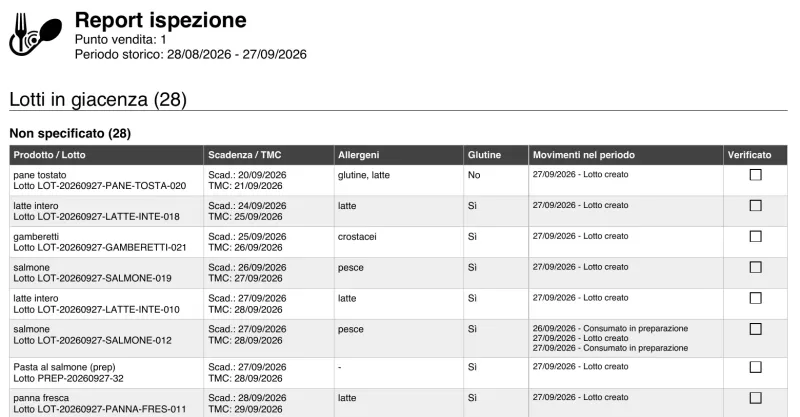
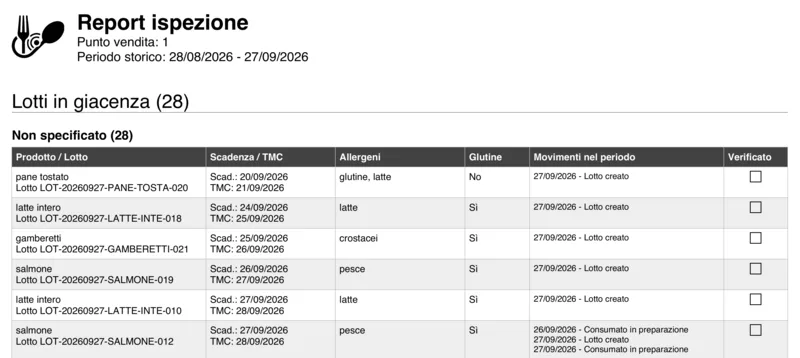
feat: hero con report leggibile e sezione Come funziona per tablet
- Hero su una colonna: titolo su 2 righe, report ispezione a tutta larghezza
  rigenerato dal PDF a 300 dpi (800/1160/2320 px)
- Come funziona: cornice tablet 16:10 per lo screenshot del passo 1,
  passi 2 e 3 affiancati
- Testi: app pensata per il tablet della cucina, funziona anche su smartphone
- Chi c'è dietro su due colonne, spaziatura sezioni ridotta

diff --git a/site/index.html b/site/index.html
@@ -19,7 +19,7 @@
 <meta property="og:image:width" content="1200">
 <meta property="og:image:height" content="630">
 <meta name="twitter:card" content="summary_large_image">
-<link rel="preload" as="image" href="/img/report-ispezione.webp" imagesrcset="/img/report-ispezione-800.webp 800w, /img/report-ispezione.webp 1560w" imagesizes="(max-width: 900px) 100vw, 540px" fetchpriority="high">
+<link rel="preload" as="image" href="/img/report-ispezione-1160.webp" imagesrcset="/img/report-ispezione-800.webp 800w, /img/report-ispezione-1160.webp 1160w, /img/report-ispezione-2320.webp 2320w" imagesizes="(max-width: 1192px) calc(100vw - 32px), 1160px" fetchpriority="high">
 <link rel="stylesheet" href="/styles.css">
 <script type="application/ld+json">
 {
@@ -53,9 +53,9 @@
     {
       "@type": "FAQPage",
       "mainEntity": [
-        { "@type": "Question", "name": "Cos'è Restrackit?", "acceptedAnswer": { "@type": "Answer", "text": "Restrackit è un software HACCP per cucine professionali, composto da un'app Android e da una piattaforma web. Serve a registrare lotti e scadenze, stampare etichette HACCP e avere i dati pronti per un'ispezione." } },
+        { "@type": "Question", "name": "Cos'è Restrackit?", "acceptedAnswer": { "@type": "Answer", "text": "Restrackit è un software HACCP per cucine professionali, composto da un'app Android per tablet e da una piattaforma web. Serve a registrare lotti e scadenze, stampare etichette HACCP e avere i dati pronti per un'ispezione." } },
         { "@type": "Question", "name": "Funziona per chi gestisce più locali?", "acceptedAnswer": { "@type": "Answer", "text": "Sì. Ogni locale ha i propri dati, separati dagli altri, e dall'app si passa da un locale all'altro con un selettore." } },
-        { "@type": "Question", "name": "Su quali dispositivi funziona?", "acceptedAnswer": { "@type": "Answer", "text": "Su smartphone e tablet Android e da browser. In cucina si usa l'app; i controlli si possono fare anche dalla piattaforma web." } },
+        { "@type": "Question", "name": "Su quali dispositivi funziona?", "acceptedAnswer": { "@type": "Answer", "text": "Su tablet Android: l'app è pensata per il tablet della cucina, usato in orizzontale. Funziona anche su smartphone Android, e i controlli si possono fare dalla piattaforma web." } },
         { "@type": "Question", "name": "Come funziona la lettura delle etichette con l'AI?", "acceptedAnswer": { "@type": "Answer", "text": "Si inquadra l'etichetta del fornitore e l'app propone prodotto, lotto e scadenza. L'operatore controlla e conferma: nessun dato viene salvato senza conferma." } },
         { "@type": "Question", "name": "Serve una stampante?", "acceptedAnswer": { "@type": "Answer", "text": "Serve solo per stampare le etichette HACCP. Durante il pilota la stampante è fornita in comodato d'uso." } },
         { "@type": "Question", "name": "A cosa servono i badge NFC?", "acceptedAnswer": { "@type": "Answer", "text": "Sul tablet condiviso della cucina ogni operatore passa al proprio profilo avvicinando il badge, oppure con un PIN. Così ogni registrazione è attribuita a chi l'ha fatta, senza digitare password in servizio." } },
@@ -85,9 +85,9 @@
 <main>
   <section class="hero">
     <div class="wrap">
-      <div>
+      <div class="hero-copy">
         <h1>Software HACCP per cucine professionali, veloce quanto il servizio</h1>
-        <p class="lead">Lotti, scadenze ed etichette in 1-2 tap. Ogni locale con i propri dati, tutti nella stessa app.</p>
+        <p class="lead">Lotti, scadenze ed etichette in 1-2 tap, dal tablet della cucina. Ogni locale con i propri dati, tutti nella stessa app.</p>
         <p class="pilot-note">Stiamo selezionando 5 cucine pilota: un mese gratis, stampante e formazione incluse.</p>
         <div class="actions">
           <a class="btn btn-primary" href="https://forms.gle/BkNGwGhaoGwES6xX8" target="_blank" rel="noopener">Candidati al pilota</a>
@@ -95,7 +95,7 @@
         </div>
       </div>
       <figure>
-        <img class="shot" src="/img/report-ispezione.webp" srcset="/img/report-ispezione-800.webp 800w, /img/report-ispezione.webp 1560w" sizes="(max-width: 900px) 100vw, 540px" width="1560" height="812" fetchpriority="high"
+        <img class="shot" src="/img/report-ispezione-1160.webp" srcset="/img/report-ispezione-800.webp 800w, /img/report-ispezione-1160.webp 1160w, /img/report-ispezione-2320.webp 2320w" sizes="(max-width: 1192px) calc(100vw - 32px), 1160px" width="2320" height="1038" fetchpriority="high"
              alt="Prima pagina di un report ispezione generato da Restrackit: lotti in giacenza con scadenza, TMC, allergeni e movimenti.">
         <figcaption>Il report per l'ispezione, generato dall'app (dati di esempio).</figcaption>
       </figure>
@@ -134,20 +134,26 @@
       <h2>Come funziona</h2>
       <p class="muted">Il percorso di un lotto, dall'arrivo della merce all'ispezione.</p>
       <div class="steps">
-        <div class="step">
-          <!-- TODO: sostituire con uno screenshot reale dell'app (lettura etichetta o nuovo lotto), es. /img/passo-lotto.webp -->
-          <div class="card-preview" role="img" aria-label="Esempio di scheda lotto: panna fresca, lotto LOT-20260927-PANNA-FRES-011, scadenza 28/09/2026, allergeni latte.">
-            <div class="lot">
-              <h3 class="m0">panna fresca</h3>
-              <dl>
-                <dt>Lotto</dt><dd>LOT-20260927-PANNA-FRES-011</dd>
-                <dt>Scadenza</dt><dd>28/09/2026</dd>
-                <dt>Allergeni</dt><dd>latte</dd>
-              </dl>
+        <div class="step step-lead">
+          <!-- TODO: screenshot reale dal tablet in orizzontale (nuovo lotto o revisione dopo la lettura dell'etichetta),
+               PNG 16:10, es. 2560x1600. Sostituire il div .card-preview con:
+               <img src="/img/passo-lotto-1160.webp" srcset="..." width="2560" height="1600" loading="lazy" alt="..."> -->
+          <div class="tablet">
+            <div class="card-preview" role="img" aria-label="Esempio di scheda lotto: panna fresca, lotto LOT-20260927-PANNA-FRES-011, scadenza 28/09/2026, allergeni latte.">
+              <div class="lot">
+                <h3 class="m0">panna fresca</h3>
+                <dl>
+                  <dt>Lotto</dt><dd>LOT-20260927-PANNA-FRES-011</dd>
+                  <dt>Scadenza</dt><dd>28/09/2026</dd>
+                  <dt>Allergeni</dt><dd>latte</dd>
+                </dl>
+              </div>
             </div>
           </div>
-          <h3>Registra il lotto all'arrivo</h3>
-          <p>Inquadri l'etichetta del fornitore: l'AI legge lotto e scadenza, tu confermi con un tap. L'operatore si identifica con il badge NFC.</p>
+          <div>
+            <h3>Registra il lotto all'arrivo</h3>
+            <p>Inquadri l'etichetta del fornitore con il tablet della cucina: l'AI legge lotto e scadenza, tu confermi con un tap. L'operatore si identifica con il badge NFC.</p>
+          </div>
         </div>
         <div class="step">
           <!-- TODO: sostituire con la foto di un'etichetta HACCP stampata, es. /img/passo-etichetta.webp -->
@@ -163,16 +169,16 @@
           <h3>Prepara ed etichetta</h3>
           <p>Per ogni preparazione l'app registra i lotti usati e calcola il TMC, il termine minimo di conservazione. L'etichetta HACCP esce dalla stampante già compilata.</p>
         </div>
-        <div class="step step-wide">
-          <div>
-            <h3 class="m0">Arriva l'ispezione? Sei già pronto.</h3>
-            <p>Le notifiche ti avvisano prima che un lotto scada. Quando serve, il report PDF raccoglie lotti, scadenze, allergeni e movimenti del periodo.</p>
+        <div class="step">
+          <div class="card-preview">
+            <ul class="status">
+              <li><span>pane tostato</span><span class="tag bad">Scaduto</span></li>
+              <li><span>latte intero</span><span class="tag warn">In scadenza</span></li>
+              <li><span>farina 00</span><span class="tag ok">In regola</span></li>
+            </ul>
           </div>
-          <ul class="status">
-            <li><span>pane tostato</span><span class="tag bad">Scaduto</span></li>
-            <li><span>latte intero</span><span class="tag warn">In scadenza</span></li>
-            <li><span>farina 00</span><span class="tag ok">In regola</span></li>
-          </ul>
+          <h3>Arriva l'ispezione? Sei già pronto.</h3>
+          <p>Le notifiche ti avvisano prima che un lotto scada. Quando serve, il report PDF raccoglie lotti, scadenze, allergeni e movimenti del periodo.</p>
         </div>
       </div>
     </div>
@@ -246,9 +252,9 @@
   <section id="faq" class="faq">
     <div class="wrap">
       <h2>Domande frequenti</h2>
-      <details><summary>Cos'è Restrackit?</summary><p>Restrackit è un software HACCP per cucine professionali, composto da un'app Android e da una piattaforma web. Serve a registrare lotti e scadenze, stampare etichette HACCP e avere i dati pronti per un'ispezione.</p></details>
+      <details><summary>Cos'è Restrackit?</summary><p>Restrackit è un software HACCP per cucine professionali, composto da un'app Android per tablet e da una piattaforma web. Serve a registrare lotti e scadenze, stampare etichette HACCP e avere i dati pronti per un'ispezione.</p></details>
       <details><summary>Funziona per chi gestisce più locali?</summary><p>Sì. Ogni locale ha i propri dati, separati dagli altri, e dall'app si passa da un locale all'altro con un selettore.</p></details>
-      <details><summary>Su quali dispositivi funziona?</summary><p>Su smartphone e tablet Android e da browser. In cucina si usa l'app; i controlli si possono fare anche dalla piattaforma web.</p></details>
+      <details><summary>Su quali dispositivi funziona?</summary><p>Su tablet Android: l'app è pensata per il tablet della cucina, usato in orizzontale. Funziona anche su smartphone Android, e i controlli si possono fare dalla piattaforma web.</p></details>
       <details><summary>Come funziona la lettura delle etichette con l'AI?</summary><p>Si inquadra l'etichetta del fornitore e l'app propone prodotto, lotto e scadenza. L'operatore controlla e conferma: nessun dato viene salvato senza conferma.</p></details>
       <details><summary>Serve una stampante?</summary><p>Serve solo per stampare le etichette HACCP. Durante il pilota la stampante è fornita in comodato d'uso.</p></details>
       <details><summary>A cosa servono i badge NFC?</summary><p>Sul tablet condiviso della cucina ogni operatore passa al proprio profilo avvicinando il badge, oppure con un PIN. Così ogni registrazione è attribuita a chi l'ha fatta, senza digitare password in servizio.</p></details>

diff --git a/site/styles.css b/site/styles.css
@@ -48,7 +48,7 @@ h3 { font-size: 1.2rem; font-weight: 600; }
 p { margin: 0 0 1em; max-width: 65ch; }
 
 .wrap { width: min(1160px, 100% - 32px); margin-inline: auto; }
-section { padding-block: clamp(56px, 8vw, 96px); }
+section { padding-block: clamp(48px, 7vw, 88px); }
 .muted { color: var(--muted); }
 
 /* Bottoni: rame + inchiostro (contrasto AA), target >= 48px */
@@ -78,14 +78,14 @@ section { padding-block: clamp(56px, 8vw, 96px); }
 @media (max-width: 420px) { .site-header .btn { display: none; } }
 
 /* Hero */
-.hero { padding-top: clamp(40px, 6vw, 80px); }
-.hero .wrap { display: grid; grid-template-columns: 1.15fr 1fr; gap: clamp(32px, 5vw, 64px); align-items: center; }
-.hero .lead { font-size: 1.2rem; color: var(--muted); }
-.hero .pilot-note { font-weight: 600; }
+.hero { padding-top: clamp(40px, 6vw, 72px); }
+.hero .wrap { display: grid; gap: clamp(32px, 5vw, 56px); }
+.hero h1 { font-size: clamp(2rem, 4vw, 3.1rem); text-wrap: balance; max-width: 26ch; }
+.hero .lead { font-size: 1.2rem; color: var(--muted); margin-bottom: .5em; }
+.hero .pilot-note { font-weight: 600; margin-bottom: 1.5em; }
 .hero figure { margin: 0; }
-.shot { border: 1px solid var(--border); border-radius: var(--radius); overflow: hidden; background: #fff; box-shadow: 0 18px 50px -24px rgb(30 27 23 / .35); }
+.shot { border: 1px solid var(--border); border-radius: var(--radius); overflow: hidden; background: #fff; box-shadow: 0 24px 60px -32px rgb(30 27 23 / .4); }
 figcaption { font-size: .9rem; color: var(--muted); margin-top: 10px; }
-@media (max-width: 900px) { .hero .wrap { grid-template-columns: 1fr; } }
 
 /* Problema */
 .problem-grid { display: grid; grid-template-columns: 1.2fr 1fr; gap: 24px; margin-top: 32px; }
@@ -97,10 +97,15 @@ figcaption { font-size: .9rem; color: var(--muted); margin-top: 10px; }
 @media (max-width: 800px) { .problem-grid { grid-template-columns: 1fr; } }
 
 /* Come funziona */
-.steps { display: grid; grid-template-columns: 1fr 1fr; gap: clamp(24px, 4vw, 48px); margin-top: 40px; }
-.step-wide { grid-column: 1 / -1; display: grid; grid-template-columns: 1fr 1fr; gap: clamp(24px, 4vw, 48px); align-items: center; }
+.steps { display: grid; grid-template-columns: 1fr 1fr; gap: clamp(32px, 4vw, 48px); margin-top: 40px; }
+.step-lead { grid-column: 1 / -1; display: grid; grid-template-columns: 2fr 1fr; gap: clamp(24px, 4vw, 48px); align-items: center; }
 .step h3 { margin-top: 24px; }
-@media (max-width: 800px) { .steps, .step-wide { grid-template-columns: 1fr; } }
+.step-lead h3 { margin-top: 0; }
+/* Cornice tablet (orizzontale, 16:10): l'app e' pensata per il tablet della cucina */
+.tablet { border: clamp(8px, 1.2vw, 14px) solid #1E1B17; border-radius: clamp(16px, 2vw, 26px); overflow: hidden; box-shadow: 0 24px 60px -32px rgb(30 27 23 / .45); }
+.tablet > * { aspect-ratio: 16 / 10; width: 100%; border-radius: 0; }
+@media (prefers-color-scheme: dark) { .tablet { border-color: #3A3631; } }
+@media (max-width: 800px) { .steps, .step-lead { grid-template-columns: 1fr; } }
 
 /* Anteprima scheda lotto e etichetta: dati reali del dataset demo */
 .card-preview { background: var(--surface); border-radius: var(--radius); padding: 24px; min-height: 260px; display: grid; place-items: center; }
@@ -113,8 +118,8 @@ figcaption { font-size: .9rem; color: var(--muted); margin-top: 10px; }
 .label b { display: block; font-size: 1.15rem; text-transform: uppercase; letter-spacing: .02em; }
 .label .row { display: flex; justify-content: space-between; gap: 12px; border-top: 1px solid #1E1B17; margin-top: 8px; padding-top: 8px; }
 
-.status { list-style: none; margin: 0; padding: 0; display: grid; gap: 10px; }
-.status li { display: flex; justify-content: space-between; gap: 16px; background: var(--surface); border-radius: var(--radius); padding: 14px 18px; }
+.status { list-style: none; margin: 0; padding: 0; display: grid; gap: 10px; width: min(360px, 100%); }
+.status li { display: flex; justify-content: space-between; gap: 16px; background: var(--bg); border-radius: var(--radius); padding: 14px 18px; }
 .tag { font-weight: 600; white-space: nowrap; }
 .tag::before { margin-right: 6px; }
 .tag.bad { color: var(--bad); } .tag.bad::before { content: "\2715"; }
@@ -137,7 +142,9 @@ figcaption { font-size: .9rem; color: var(--muted); margin-top: 10px; }
 @media (max-width: 800px) { .pilot-cols { grid-template-columns: 1fr; } }
 
 /* Chi c'e' dietro */
-.about .wrap { max-width: 760px; }
+.about .wrap { display: grid; grid-template-columns: 1fr 2fr; gap: clamp(16px, 4vw, 48px); align-items: baseline; }
+.about p { margin: 0; font-size: 1.15rem; }
+@media (max-width: 800px) { .about .wrap { grid-template-columns: 1fr; } }
 
 /* FAQ */
 .faq details { border-bottom: 1px solid var(--border); }
